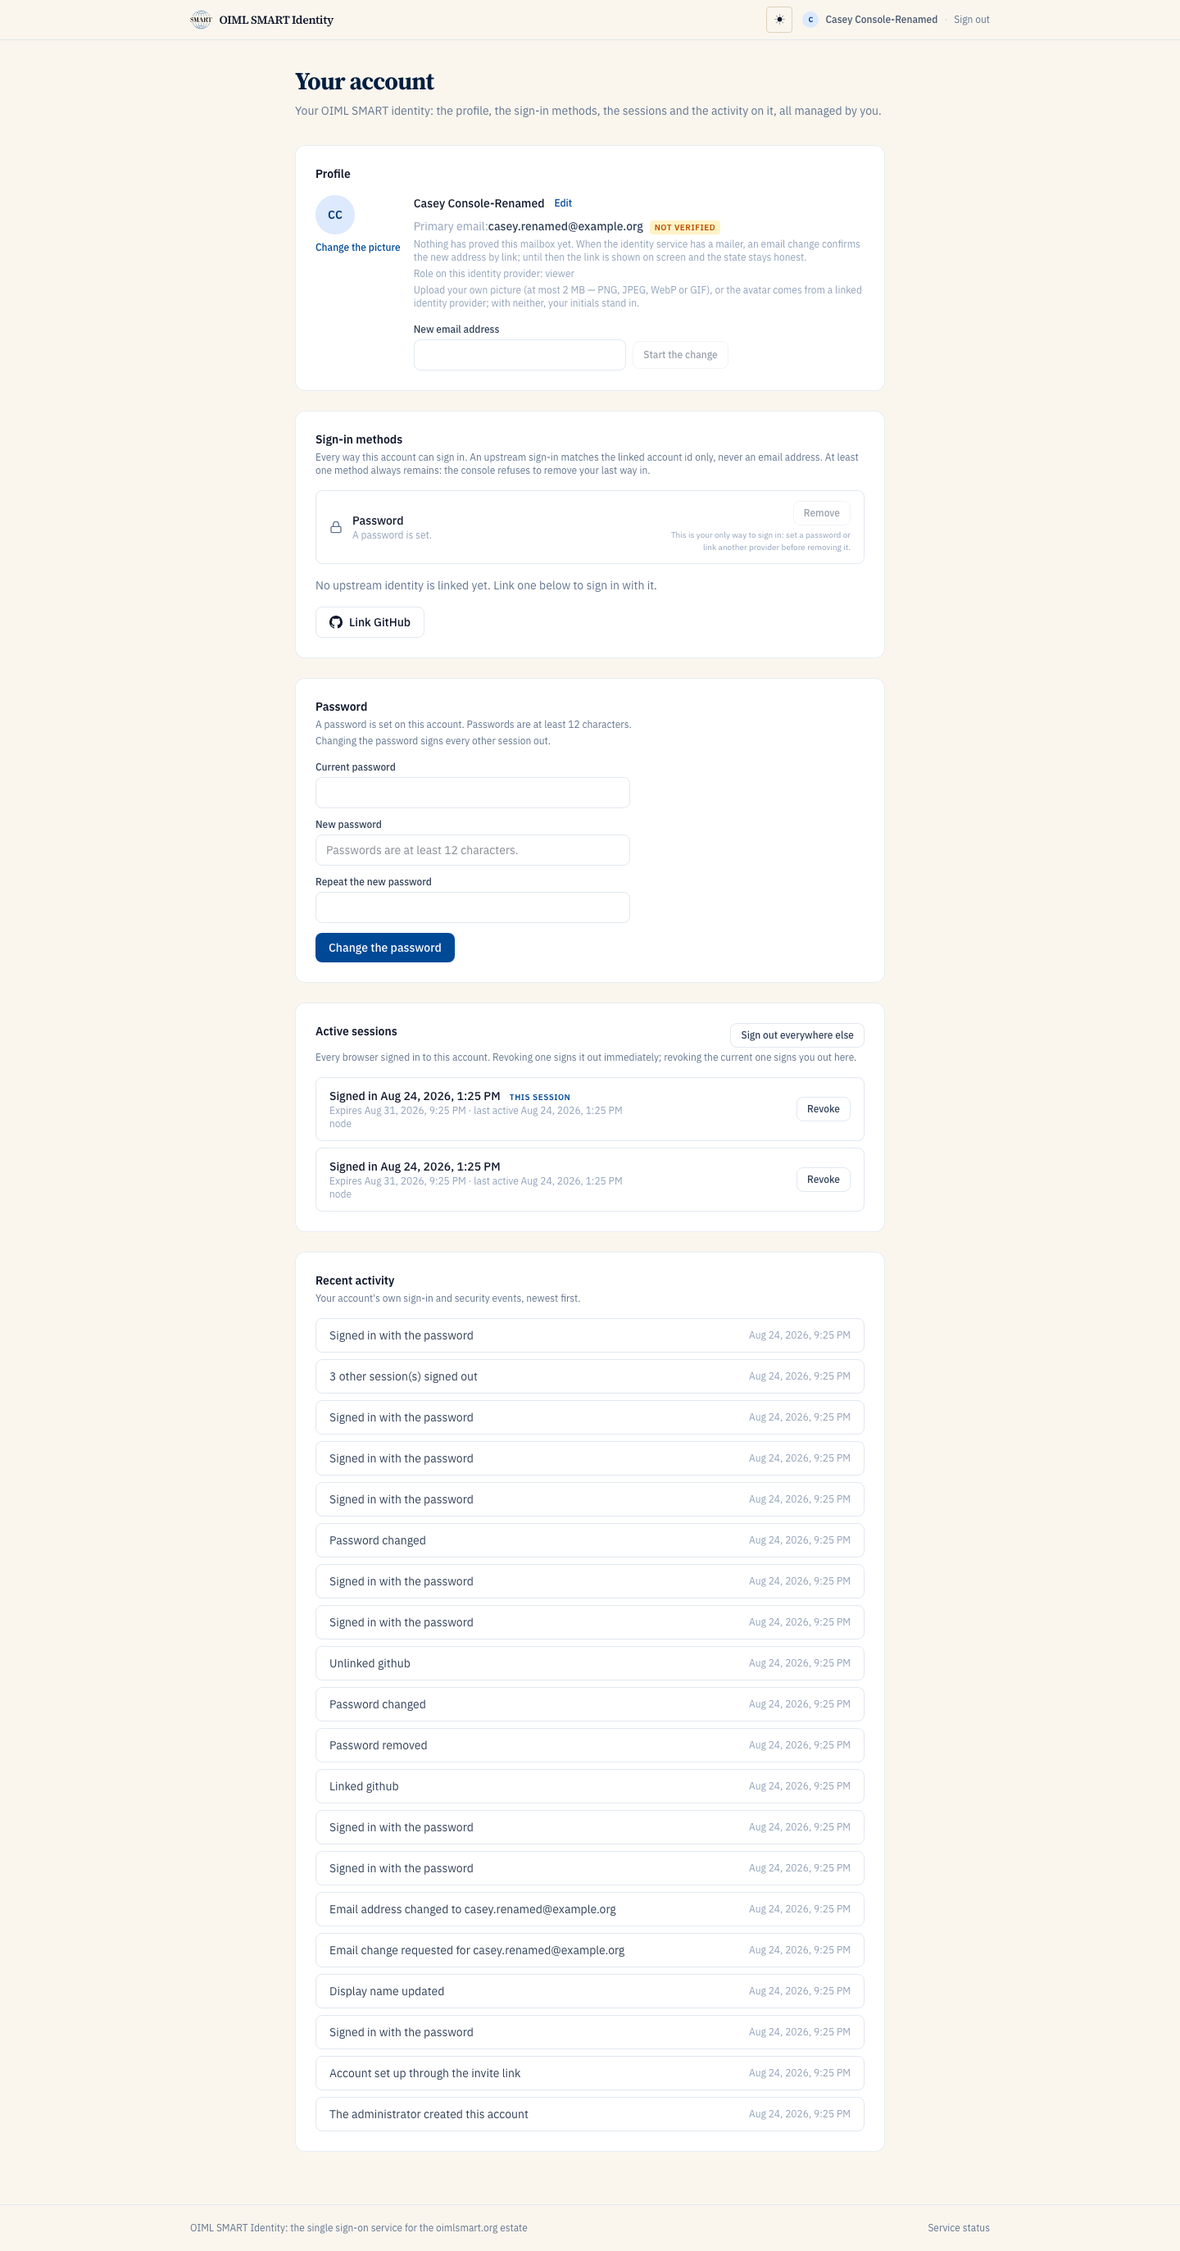
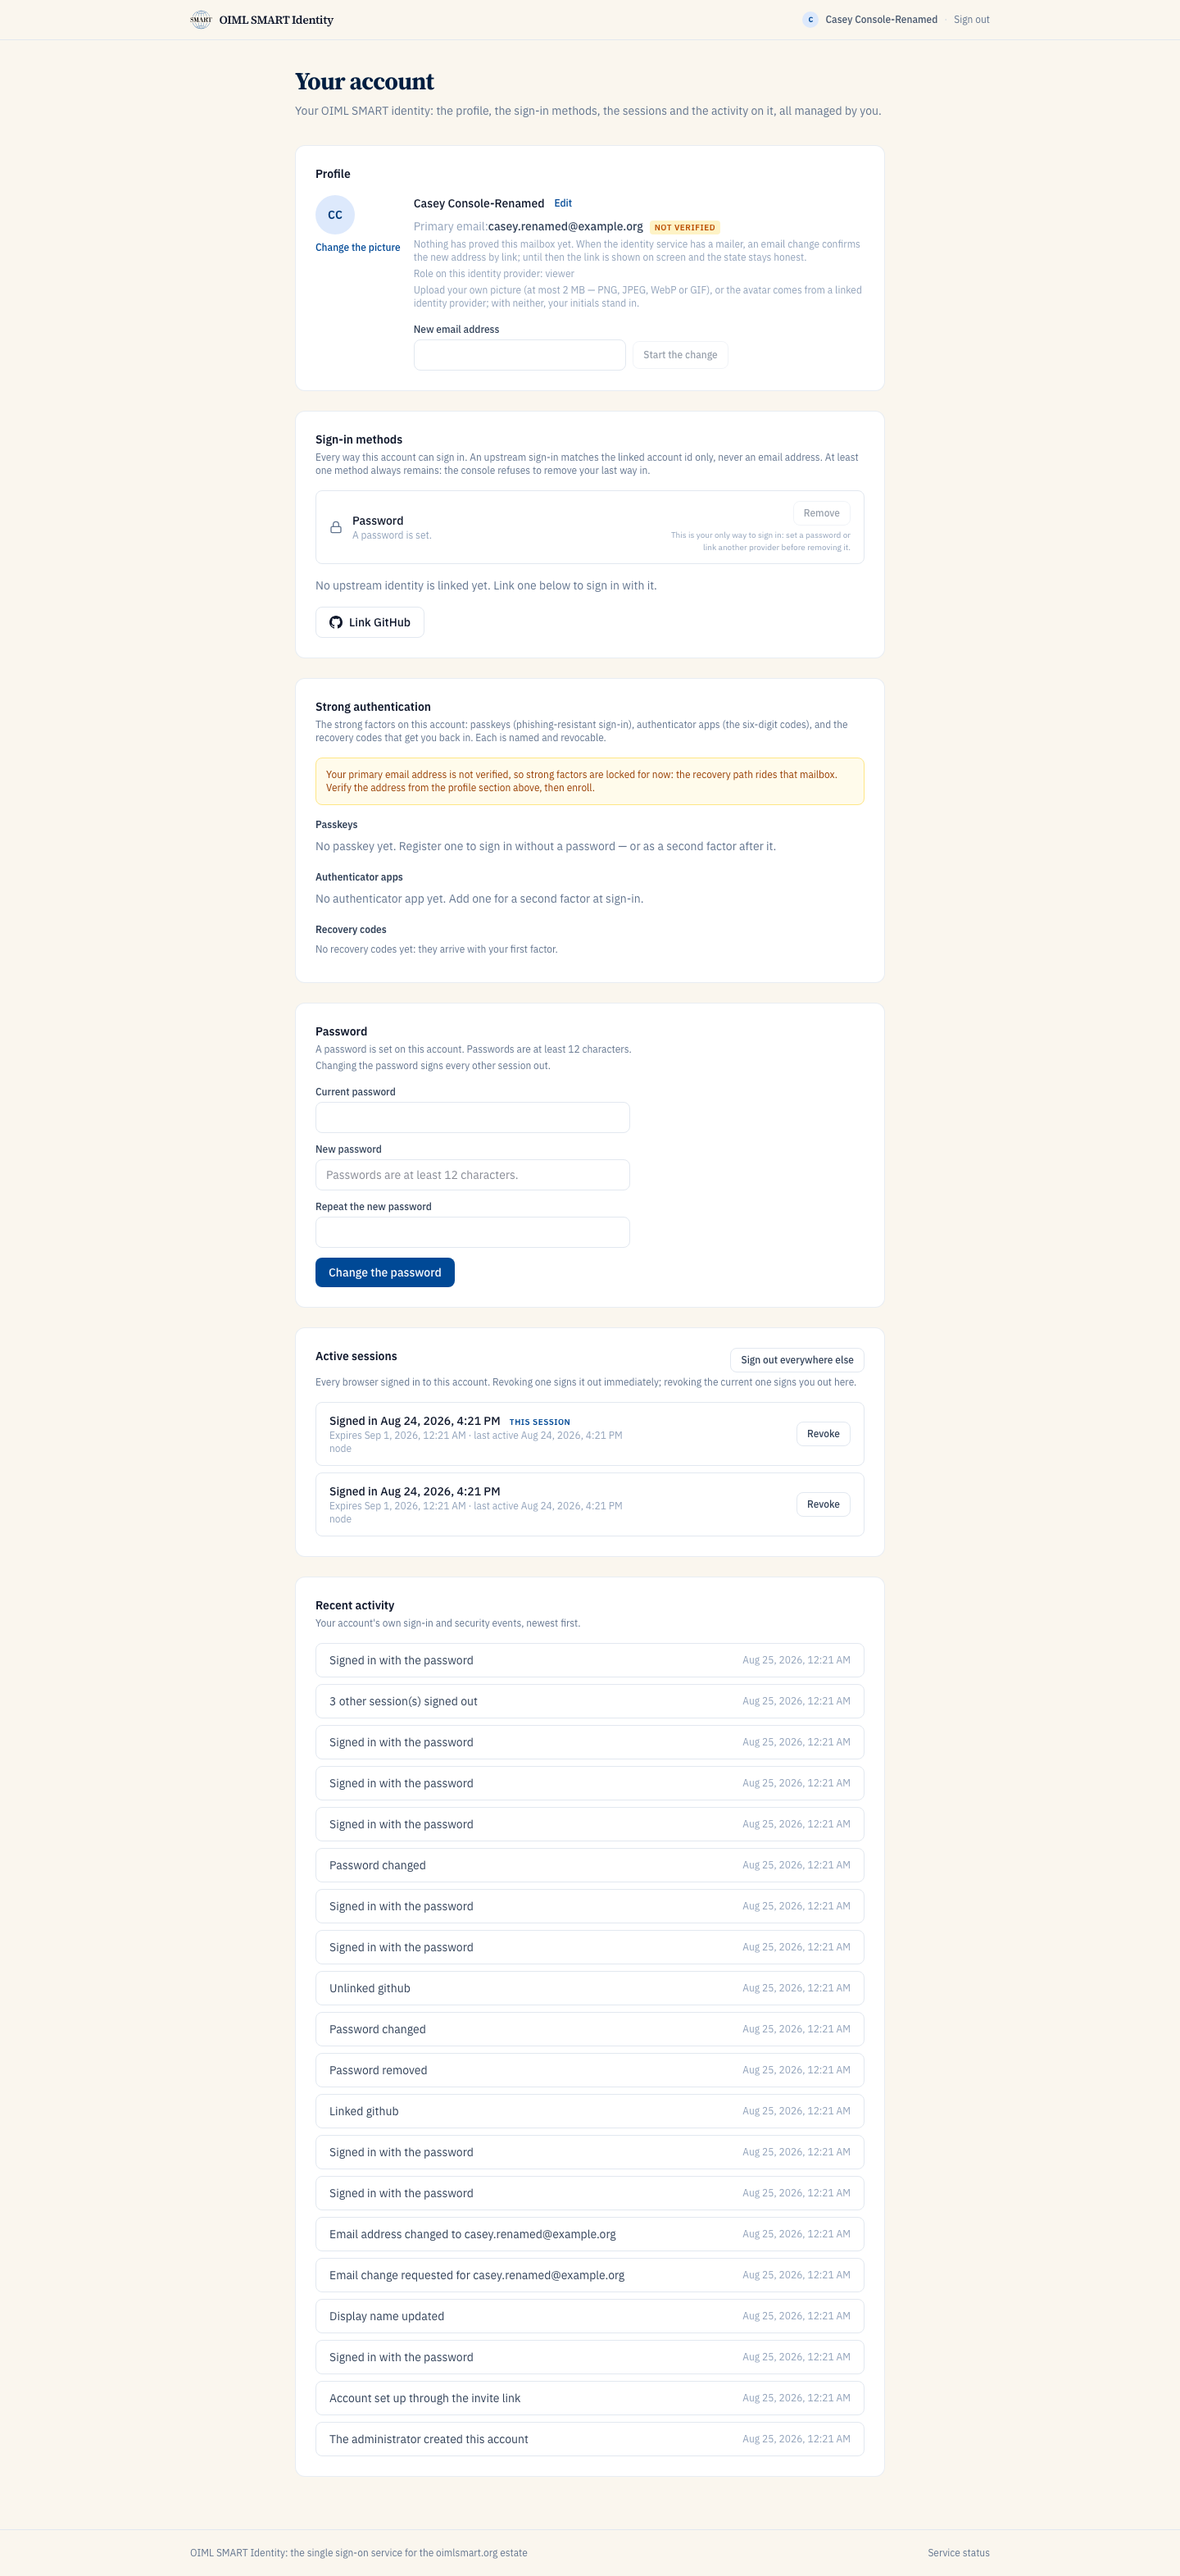
login: the MFA step aborts the pending conditional-UI wait + the guide captures follow the console
A pending passkey autofill must never answer over the factor step (the
user chose the password form). The two guide screenshots are the id-06
suite's re-captures against the current console (the factors section
with the honest unverified posture) — the documentation rule's real
1440x900 captures from the running app.

diff --git a/browser/src/vue-pages/public/login.vue b/browser/src/vue-pages/public/login.vue
@@ -193,6 +193,10 @@ async function submitOpLogin() {
       methods?: { totp: boolean; passkey: boolean; recovery: boolean }
     } | null
     if (body?.mfaRequired && body.mfaToken && body.methods) {
+      // The password branch won: the pending conditional-UI autofill must
+      // not answer over the factor step (the factor ceremony is now the
+      // active one).
+      abortConditionalUi()
       mfa.value = { token: body.mfaToken, methods: body.methods }
       mfaCode.value = ''
       recoveryCode.value = ''
